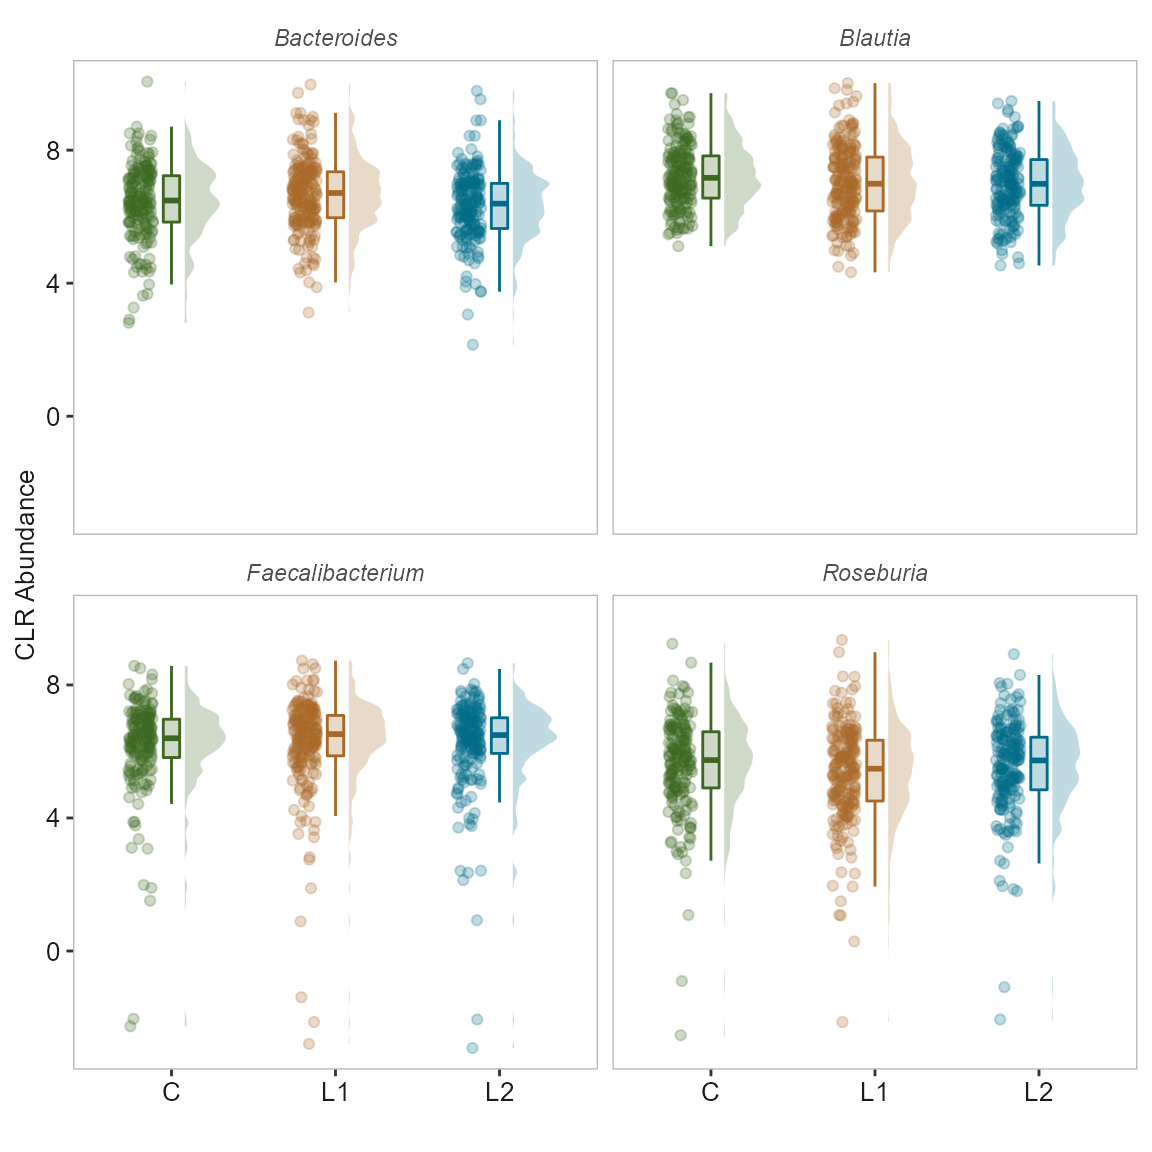
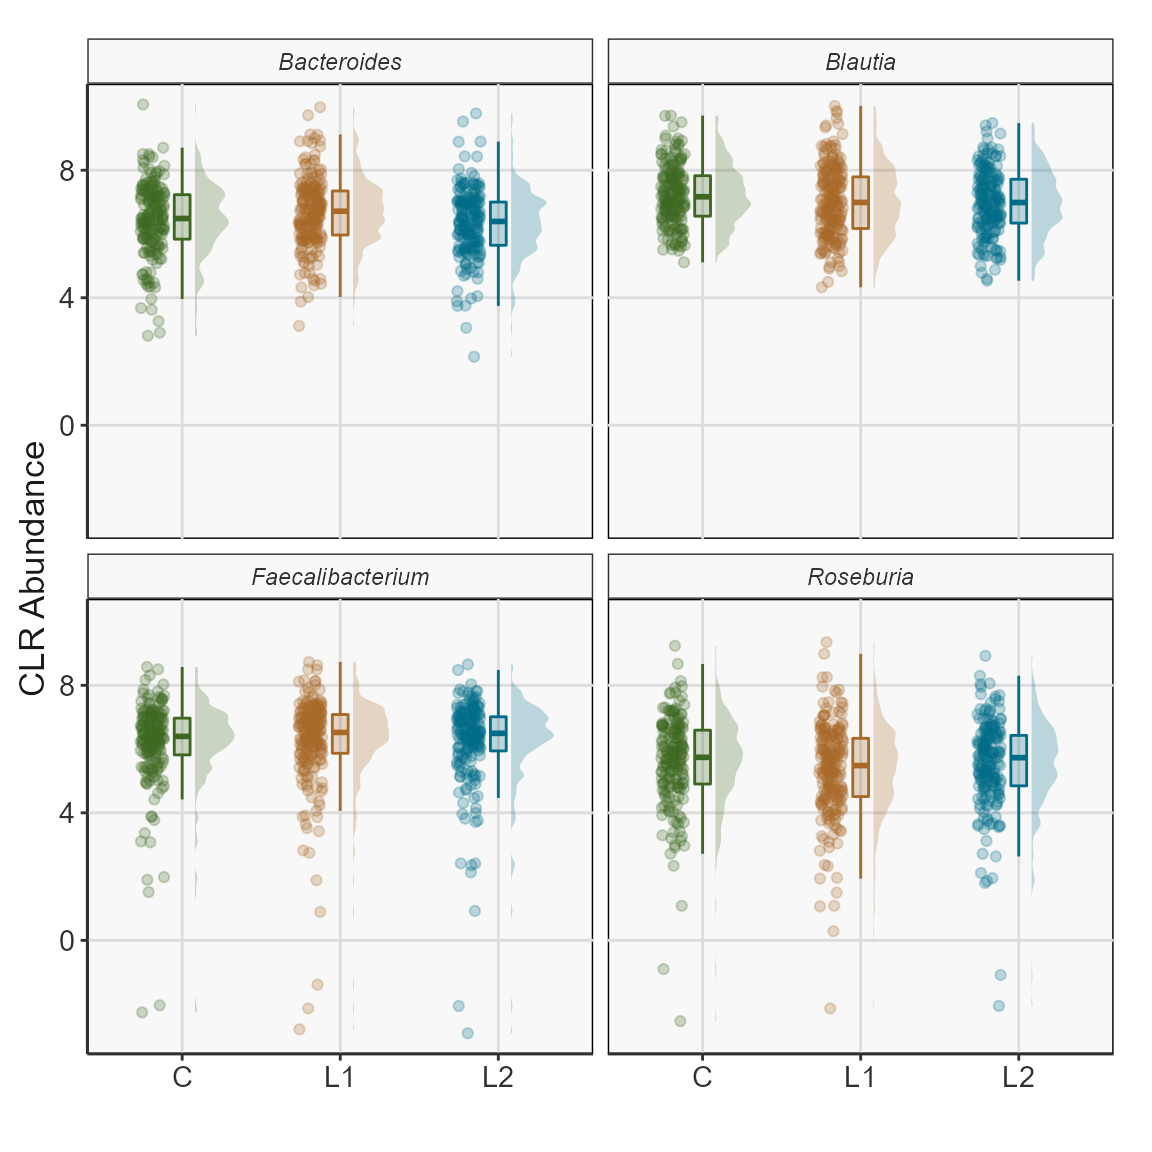
themes

diff --git a/docs/reference/Themes.html b/docs/reference/Themes.html
@@ -6,7 +6,7 @@
 <meta http-equiv="X-UA-Compatible" content="IE=edge">
 <meta name="viewport" content="width=device-width, initial-scale=1.0">
 
-<title>Creates a Heatmap using `TidyHeatmap` and `ComplexHeatmap` — plotTidyHeatmap • biomeViz</title>
+<title>Standard ggplot2 theme for RIVM Toolbox — Themes • biomeViz</title>
 
 
 <!-- jquery -->
@@ -39,8 +39,8 @@
 
 
 
-<meta property="og:title" content="Creates a Heatmap using `TidyHeatmap` and `ComplexHeatmap` — plotTidyHeatmap" />
-<meta property="og:description" content="Creates a Heatmap using `TidyHeatmap` and `ComplexHeatmap`" />
+<meta property="og:title" content="Standard ggplot2 theme for RIVM Toolbox — Themes" />
+<meta property="og:description" content="Standard ggplot2 theme for RIVM Toolbox" />
 
 
 
@@ -118,82 +118,66 @@
 <div class="row">
   <div class="col-md-9 contents">
     <div class="page-header">
-    <h1>Creates a Heatmap using `TidyHeatmap` and `ComplexHeatmap`</h1>
+    <h1>Standard ggplot2 theme for RIVM Toolbox</h1>
     
-    <div class="hidden name"><code>plotTidyHeatmap.Rd</code></div>
+    <div class="hidden name"><code>Themes.Rd</code></div>
     </div>
 
     <div class="ref-description">
-    <p>Creates a Heatmap using `TidyHeatmap` and `ComplexHeatmap`</p>
+    <p>Standard ggplot2 theme for RIVM Toolbox</p>
     </div>
 
-    <pre class="usage"><span class='fu'>plotTidyHeatmap</span><span class='op'>(</span>
-  <span class='va'>x</span>,
-  select_taxa <span class='op'>=</span> <span class='cn'>NULL</span>,
-  group_samples_by <span class='op'>=</span> <span class='cn'>NULL</span>,
-  add_taxa_label <span class='op'>=</span> <span class='cn'>TRUE</span>,
-  <span class='va'>...</span>
-<span class='op'>)</span></pre>
+    <pre class="usage"><span class='fu'>theme_biomViz</span><span class='op'>(</span>base_size <span class='op'>=</span> <span class='fl'>11</span>, base_family <span class='op'>=</span> <span class='st'>""</span><span class='op'>)</span>
+
+<span class='fu'>theme_biomViz_minimal</span><span class='op'>(</span>base_size <span class='op'>=</span> <span class='fl'>11</span>, base_family <span class='op'>=</span> <span class='st'>""</span><span class='op'>)</span>
+
+<span class='fu'>theme_biomViz_bw</span><span class='op'>(</span>base_size <span class='op'>=</span> <span class='fl'>11</span>, base_family <span class='op'>=</span> <span class='st'>""</span><span class='op'>)</span>
+
+<span class='fu'>scale_fill_biomeViz_summer</span><span class='op'>(</span><span class='va'>...</span><span class='op'>)</span>
+
+<span class='fu'>scale_colour_biomeViz_summer</span><span class='op'>(</span><span class='va'>...</span><span class='op'>)</span></pre>
 
     <h2 class="hasAnchor" id="arguments"><a class="anchor" href="#arguments"></a>Arguments</h2>
     <table class="ref-arguments">
     <colgroup><col class="name" /><col class="desc" /></colgroup>
     <tr>
-      <th>x</th>
-      <td><p><code>phyloseq-class</code> object.</p></td>
+      <th>base_size</th>
+      <td><p>Base size</p></td>
     </tr>
     <tr>
-      <th>select_taxa</th>
-      <td><p>Features to plot.</p></td>
-    </tr>
-    <tr>
-      <th>group_samples_by</th>
-      <td><p>A column in <code>sample_data</code> to group tiles.</p></td>
-    </tr>
-    <tr>
-      <th>add_taxa_label</th>
-      <td><p>Logical. Default is TRUE.</p></td>
-    </tr>
-    <tr>
-      <th>...</th>
-      <td><p>Arguments forwarded to tidyHeatmap::heatmap and ComplexHeatmap::Heatmap.</p></td>
+      <th>base_family</th>
+      <td><p>Base family</p></td>
     </tr>
     </table>
 
-    <h2 class="hasAnchor" id="value"><a class="anchor" href="#value"></a>Value</h2>
-
-    <p>a <code>heatmap</code> object.</p>
     <h2 class="hasAnchor" id="details"><a class="anchor" href="#details"></a>Details</h2>
 
-    <p>A TidyHeatmap plotting wrapper for <code>phyloseq-class</code> object.</p>
-    <h2 class="hasAnchor" id="references"><a class="anchor" href="#references"></a>References</h2>
-
-    <p>Shetty SA (2021). Data visualization for microbiome analytics.
-<a href='https://github.com/microsud/biomeViz'>https://github.com/microsud/biomeViz</a></p>
-    <h2 class="hasAnchor" id="author"><a class="anchor" href="#author"></a>Author</h2>
-
-    <p>Sudarshan A. Shetty</p>
+    <p>A standard theme for ggplot2 to produce similar aesthetics for
+         RIVM Toolbox.</p>
 
     <h2 class="hasAnchor" id="examples"><a class="anchor" href="#examples"></a>Examples</h2>
     <pre class="examples"><div class='input'><span class='kw'><a href='https://rdrr.io/r/base/library.html'>library</a></span><span class='op'>(</span><span class='va'>biomeUtils</span><span class='op'>)</span>
 <span class='kw'><a href='https://rdrr.io/r/base/library.html'>library</a></span><span class='op'>(</span><span class='va'>biomeViz</span><span class='op'>)</span>
 <span class='kw'><a href='https://rdrr.io/r/base/library.html'>library</a></span><span class='op'>(</span><span class='va'><a href='http://microbiome.github.io/microbiome'>microbiome</a></span><span class='op'>)</span>
+<span class='kw'><a href='https://rdrr.io/r/base/library.html'>library</a></span><span class='op'>(</span><span class='va'><a href='https://ggplot2.tidyverse.org'>ggplot2</a></span><span class='op'>)</span>
 <span class='kw'><a href='https://rdrr.io/r/base/library.html'>library</a></span><span class='op'>(</span><span class='va'><a href='https://dplyr.tidyverse.org'>dplyr</a></span><span class='op'>)</span>
 
 <span class='va'>ps</span> <span class='op'>&lt;-</span> <span class='va'>FuentesIliGutData</span> <span class='op'>%&gt;%</span>
-         <span class='fu'>microbiome</span><span class='fu'>::</span><span class='fu'><a href='https://rdrr.io/pkg/microbiome/man/transform.html'>transform</a></span><span class='op'>(</span><span class='st'>"compositional"</span><span class='op'>)</span>
-<span class='va'>select_taxa</span> <span class='op'>&lt;-</span> <span class='fu'><a href='https://rdrr.io/pkg/biomeUtils/man/findTopTaxa.html'>findTopTaxa</a></span><span class='op'>(</span><span class='va'>ps</span>, top<span class='op'>=</span> <span class='fl'>10</span>, method<span class='op'>=</span><span class='st'>"mean"</span><span class='op'>)</span>
+  <span class='fu'>microbiome</span><span class='fu'>::</span><span class='fu'><a href='https://rdrr.io/pkg/microbiome/man/aggregate_taxa.html'>aggregate_taxa</a></span><span class='op'>(</span><span class='st'>"Genus"</span><span class='op'>)</span> <span class='op'>%&gt;%</span>
+  <span class='fu'>microbiome</span><span class='fu'>::</span><span class='fu'><a href='https://rdrr.io/pkg/microbiome/man/transform.html'>transform</a></span><span class='op'>(</span><span class='st'>"compositional"</span><span class='op'>)</span>
 
-<span class='fu'>plotTidyHeatmap</span><span class='op'>(</span><span class='va'>ps</span>, select_taxa <span class='op'>=</span> <span class='va'>select_taxa</span>,
-                group_samples_by <span class='op'>=</span> <span class='st'>"ILI"</span>,
-                add_taxa_label <span class='op'>=</span> <span class='cn'>FALSE</span>,
-                cluster_rows <span class='op'>=</span> <span class='cn'>FALSE</span>,
-                .scale <span class='op'>=</span> <span class='st'>"none"</span>,
-                transform <span class='op'>=</span> <span class='cn'>NULL</span>,
-                palette_value <span class='op'>=</span> <span class='fu'><a href='https://rdrr.io/r/base/c.html'>c</a></span><span class='op'>(</span><span class='st'>"red"</span>, <span class='st'>"white"</span>, <span class='st'>"blue"</span><span class='op'>)</span><span class='op'>)</span>
-</div><div class='output co'>#&gt; <span class='message'>Registered S3 method overwritten by 'dendextend':</span>
-#&gt; <span class='message'>  method     from </span>
-#&gt; <span class='message'>  rev.hclust vegan</span></div><div class='output co'>#&gt; <span class='message'>tidyHeatmap says: (once per session) from release 1.2.3 the grouping labels have white background by default. To add color for one-ay grouping specify palette_grouping = list(c("red", "blue"))</span></div><div class='img'><img src='plotTidyHeatmap-1.png' alt='' width='700' height='433' /></div><div class='input'>
+<span class='fu'><a href='plotTaxaRaincloud.html'>plotTaxaRaincloud</a></span><span class='op'>(</span><span class='va'>ps</span>,
+                  taxa <span class='op'>=</span><span class='st'>"Bacteroides"</span>,
+                  group_samples_by <span class='op'>=</span> <span class='st'>"ILI"</span>,
+                  opacity <span class='op'>=</span> <span class='fl'>0.25</span>,
+                  shape_point <span class='op'>=</span> <span class='fl'>21</span><span class='op'>)</span> <span class='op'>+</span> <span class='co'># combine with ggplot2 for improvements</span>
+  <span class='fu'><a href='https://ggplot2.tidyverse.org/reference/labs.html'>labs</a></span><span class='op'>(</span>y <span class='op'>=</span> <span class='st'>"Relative abundance"</span>,
+       x <span class='op'>=</span> <span class='st'>""</span>,
+       subtitle <span class='op'>=</span> <span class='st'>"Raincloud plot"</span><span class='op'>)</span> <span class='op'>+</span>
+  <span class='fu'>theme_biomViz_minimal</span><span class='op'>(</span><span class='op'>)</span><span class='op'>+</span>
+  <span class='fu'>scale_fill_biomeViz_summer</span><span class='op'>(</span><span class='op'>)</span> <span class='op'>+</span>
+  <span class='fu'>scale_colour_biomeViz_summer</span><span class='op'>(</span><span class='op'>)</span>
+</div><div class='img'><img src='Themes-1.png' alt='' width='700' height='433' /></div><div class='input'>
 </div></pre>
   </div>
   <div class="col-md-3 hidden-xs hidden-sm" id="pkgdown-sidebar">

diff --git a/docs/articles/Introduction.html b/docs/articles/Introduction.html
@@ -31,7 +31,7 @@
       </button>
       <span class="navbar-brand">
         <a class="navbar-link" href="../index.html">biomeViz</a>
-        <span class="version label label-default" data-toggle="tooltip" data-placement="bottom" title="Released version">0.0.03</span>
+        <span class="version label label-default" data-toggle="tooltip" data-placement="bottom" title="Released version">0.0.04</span>
       </span>
     </div>
 
@@ -201,7 +201,7 @@
   <span class="fu"><a href="https://ggplot2.tidyverse.org/reference/labs.html">labs</a></span><span class="op">(</span>y <span class="op">=</span> <span class="st">"Relative abundance"</span>,
        x <span class="op">=</span> <span class="st">""</span>,
        subtitle <span class="op">=</span> <span class="fu"><a href="https://rdrr.io/r/base/expression.html">expression</a></span><span class="op">(</span><span class="fu"><a href="https://rdrr.io/r/base/paste.html">paste</a></span><span class="op">(</span><span class="st">"Raincloud plot showing the distribution of "</span>,<span class="fu"><a href="https://rdrr.io/r/grDevices/plotmath.html">italic</a></span><span class="op">(</span><span class="st">"Bacteroides"</span><span class="op">)</span><span class="op">)</span><span class="op">)</span><span class="op">)</span> <span class="op">+</span>
-  <span class="fu"><a href="../reference/theme_biomViz.html">theme_biomViz</a></span><span class="op">(</span><span class="op">)</span><span class="op">+</span>
+  <span class="fu"><a href="../reference/Themes.html">theme_biomViz</a></span><span class="op">(</span><span class="op">)</span><span class="op">+</span>
   <span class="fu"><a href="https://ggplot2.tidyverse.org/reference/scale_manual.html">scale_fill_manual</a></span><span class="op">(</span>values <span class="op">=</span> <span class="fu"><a href="https://rdrr.io/r/base/c.html">c</a></span><span class="op">(</span><span class="st">"#3d6721"</span>, <span class="st">"#a86826"</span>, <span class="st">"#006c89"</span><span class="op">)</span>, guide <span class="op">=</span> <span class="st">"none"</span><span class="op">)</span> <span class="op">+</span>
   <span class="fu"><a href="https://ggplot2.tidyverse.org/reference/scale_manual.html">scale_color_manual</a></span><span class="op">(</span>values <span class="op">=</span> <span class="fu"><a href="https://rdrr.io/r/base/c.html">c</a></span><span class="op">(</span><span class="st">"#3d6721"</span>, <span class="st">"#a86826"</span>, <span class="st">"#006c89"</span><span class="op">)</span>, guide <span class="op">=</span> <span class="st">"none"</span><span class="op">)</span> <span class="op">+</span>
   <span class="fu"><a href="https://ggplot2.tidyverse.org/reference/theme.html">theme</a></span><span class="op">(</span>plot.subtitle <span class="op">=</span> <span class="fu"><a href="https://ggplot2.tidyverse.org/reference/element.html">element_text</a></span><span class="op">(</span>margin <span class="op">=</span> <span class="fu"><a href="https://ggplot2.tidyverse.org/reference/element.html">margin</a></span><span class="op">(</span>t <span class="op">=</span> <span class="fl">5</span>, b <span class="op">=</span> <span class="fl">10</span><span class="op">)</span><span class="op">)</span>,
@@ -223,8 +223,8 @@
                   shape_point <span class="op">=</span> <span class="fl">21</span><span class="op">)</span> <span class="op">+</span> <span class="co"># combine with ggplot2 for improvements</span>
   <span class="fu"><a href="https://ggplot2.tidyverse.org/reference/labs.html">labs</a></span><span class="op">(</span>y <span class="op">=</span> <span class="st">"CLR Abundance"</span>,
        x <span class="op">=</span> <span class="st">""</span><span class="op">)</span> <span class="op">+</span> 
-  <span class="fu"><a href="../reference/theme_biomViz.html">theme_biomViz</a></span><span class="op">(</span><span class="op">)</span> <span class="op">+</span> 
-  <span class="fu"><a href="https://ggplot2.tidyverse.org/reference/theme.html">theme</a></span><span class="op">(</span>strip.text <span class="op">=</span> <span class="fu"><a href="https://ggplot2.tidyverse.org/reference/element.html">element_text</a></span><span class="op">(</span>face <span class="op">=</span> <span class="st">"italic"</span><span class="op">)</span><span class="op">)</span> <span class="op">+</span>
+  <span class="fu"><a href="../reference/Themes.html">theme_biomViz_bw</a></span><span class="op">(</span><span class="op">)</span> <span class="op">+</span> 
+  <span class="fu"><a href="https://ggplot2.tidyverse.org/reference/theme.html">theme</a></span><span class="op">(</span>strip.text.x <span class="op">=</span> <span class="fu"><a href="https://ggplot2.tidyverse.org/reference/element.html">element_text</a></span><span class="op">(</span>face <span class="op">=</span> <span class="st">"italic"</span><span class="op">)</span><span class="op">)</span> <span class="op">+</span>
   <span class="fu"><a href="https://ggplot2.tidyverse.org/reference/scale_manual.html">scale_fill_manual</a></span><span class="op">(</span>values <span class="op">=</span> <span class="fu"><a href="https://rdrr.io/r/base/c.html">c</a></span><span class="op">(</span><span class="st">"#3d6721"</span>, <span class="st">"#a86826"</span>, <span class="st">"#006c89"</span><span class="op">)</span>, guide <span class="op">=</span> <span class="st">"none"</span><span class="op">)</span> <span class="op">+</span>
   <span class="fu"><a href="https://ggplot2.tidyverse.org/reference/scale_manual.html">scale_color_manual</a></span><span class="op">(</span>values <span class="op">=</span> <span class="fu"><a href="https://rdrr.io/r/base/c.html">c</a></span><span class="op">(</span><span class="st">"#3d6721"</span>, <span class="st">"#a86826"</span>, <span class="st">"#006c89"</span><span class="op">)</span>, guide <span class="op">=</span> <span class="st">"none"</span><span class="op">)</span>  </code></pre></div>
 <p><img src="Introduction_files/figure-html/unnamed-chunk-6-1.png" width="576"></p>
@@ -260,7 +260,7 @@
          axis_plot <span class="op">=</span> <span class="fu"><a href="https://rdrr.io/r/base/c.html">c</a></span><span class="op">(</span><span class="fl">1</span><span class="op">:</span><span class="fl">2</span><span class="op">)</span>,
          point_shape <span class="op">=</span> <span class="fl">21</span>,  <span class="co"># point_shape</span>
          point_alpha <span class="op">=</span> <span class="fl">0.5</span><span class="op">)</span> <span class="op">+</span>
-  <span class="fu"><a href="../reference/theme_biomViz.html">theme_biomViz</a></span><span class="op">(</span><span class="op">)</span> <span class="op">+</span> 
+  <span class="fu"><a href="../reference/Themes.html">theme_biomViz_minimal</a></span><span class="op">(</span><span class="op">)</span> <span class="op">+</span> 
   <span class="fu"><a href="https://ggplot2.tidyverse.org/reference/scale_manual.html">scale_color_manual</a></span><span class="op">(</span>values <span class="op">=</span> <span class="fu"><a href="https://rdrr.io/r/base/c.html">c</a></span><span class="op">(</span><span class="st">"#3d6721"</span>, <span class="st">"#a86826"</span>, <span class="st">"#006c89"</span><span class="op">)</span><span class="op">)</span> <span class="op">+</span>
   <span class="fu"><a href="https://ggplot2.tidyverse.org/reference/scale_manual.html">scale_fill_manual</a></span><span class="op">(</span>values <span class="op">=</span> <span class="fu"><a href="https://rdrr.io/r/base/c.html">c</a></span><span class="op">(</span><span class="st">"#3d6721"</span>, <span class="st">"#a86826"</span>, <span class="st">"#006c89"</span><span class="op">)</span><span class="op">)</span>
 <span class="co">#&gt; Random number for permutation analysis ...</span>
@@ -288,7 +288,7 @@
 <span class="co">#&gt; </span>
 <span class="co">#&gt; other attached packages:</span>
 <span class="co">#&gt; [1] ggside_0.1.2      tidyHeatmap_1.3.1 gghalves_0.1.1    dplyr_1.0.6      </span>
-<span class="co">#&gt; [5] biomeViz_0.0.03   biomeUtils_0.012  microbiome_1.14.0 ggplot2_3.3.5    </span>
+<span class="co">#&gt; [5] biomeViz_0.0.04   biomeUtils_0.016  microbiome_1.14.0 ggplot2_3.3.5    </span>
 <span class="co">#&gt; [9] phyloseq_1.36.0  </span>
 <span class="co">#&gt; </span>
 <span class="co">#&gt; loaded via a namespace (and not attached):</span>

diff --git a/docs/reference/index.html b/docs/reference/index.html
@@ -71,7 +71,7 @@
       </button>
       <span class="navbar-brand">
         <a class="navbar-link" href="../index.html">biomeViz</a>
-        <span class="version label label-default" data-toggle="tooltip" data-placement="bottom" title="Released version">0.0.03</span>
+        <span class="version label label-default" data-toggle="tooltip" data-placement="bottom" title="Released version">0.0.04</span>
       </span>
     </div>
 
@@ -173,7 +173,7 @@
       </tr><tr>
         
         <td>
-          <p><code><a href="theme_biomViz.html">theme_biomViz</a></code> </p>
+          <p><code><a href="Themes.html">theme_biomViz()</a></code> <code><a href="Themes.html">theme_biomViz_minimal()</a></code> <code><a href="Themes.html">theme_biomViz_bw()</a></code> <code><a href="Themes.html">scale_fill_biomeViz_summer()</a></code> <code><a href="Themes.html">scale_colour_biomeViz_summer()</a></code> </p>
         </td>
         <td><p>Standard ggplot2 theme for RIVM Toolbox</p></td>
       </tr>

diff --git a/docs/news/index.html b/docs/news/index.html
@@ -71,7 +71,7 @@
       </button>
       <span class="navbar-brand">
         <a class="navbar-link" href="../index.html">biomeViz</a>
-        <span class="version label label-default" data-toggle="tooltip" data-placement="bottom" title="Released version">0.0.03</span>
+        <span class="version label label-default" data-toggle="tooltip" data-placement="bottom" title="Released version">0.0.04</span>
       </span>
     </div>
 
@@ -121,11 +121,11 @@
       
     </div>
 
-    <div id="biomeviz-010" class="section level1">
-<h1 class="page-header" data-toc-text="0.1.0">
-<a href="#biomeviz-010" class="anchor"></a>biomeViz 0.1.0</h1>
+    <div id="biomeviz-0004" class="section level1">
+<h1 class="page-header" data-toc-text="0.0.04">
+<a href="#biomeviz-0004" class="anchor"></a>biomeViz 0.0.04</h1>
 <ul>
-<li>Added a <code>NEWS.md</code> file to track changes to the package.</li>
+<li>Added a <code>themes</code> to the package.</li>
 </ul>
 </div>
   </div>

diff --git a/docs/articles/index.html b/docs/articles/index.html
@@ -71,7 +71,7 @@
       </button>
       <span class="navbar-brand">
         <a class="navbar-link" href="../index.html">biomeViz</a>
-        <span class="version label label-default" data-toggle="tooltip" data-placement="bottom" title="Released version">0.0.03</span>
+        <span class="version label label-default" data-toggle="tooltip" data-placement="bottom" title="Released version">0.0.04</span>
       </span>
     </div>
 

diff --git a/docs/reference/plotByGroup.html b/docs/reference/plotByGroup.html
@@ -72,7 +72,7 @@
       </button>
       <span class="navbar-brand">
         <a class="navbar-link" href="../index.html">biomeViz</a>
-        <span class="version label label-default" data-toggle="tooltip" data-placement="bottom" title="Released version">0.0.03</span>
+        <span class="version label label-default" data-toggle="tooltip" data-placement="bottom" title="Released version">0.0.04</span>
       </span>
     </div>
 

diff --git a/docs/reference/plotPCoA.html b/docs/reference/plotPCoA.html
@@ -72,7 +72,7 @@
       </button>
       <span class="navbar-brand">
         <a class="navbar-link" href="../index.html">biomeViz</a>
-        <span class="version label label-default" data-toggle="tooltip" data-placement="bottom" title="Released version">0.0.03</span>
+        <span class="version label label-default" data-toggle="tooltip" data-placement="bottom" title="Released version">0.0.04</span>
       </span>
     </div>
 

diff --git a/docs/reference/plotTaxaRaincloud.html b/docs/reference/plotTaxaRaincloud.html
@@ -72,7 +72,7 @@
       </button>
       <span class="navbar-brand">
         <a class="navbar-link" href="../index.html">biomeViz</a>
-        <span class="version label label-default" data-toggle="tooltip" data-placement="bottom" title="Released version">0.0.03</span>
+        <span class="version label label-default" data-toggle="tooltip" data-placement="bottom" title="Released version">0.0.04</span>
       </span>
     </div>
 

diff --git a/docs/reference/plotTopAbundant.html b/docs/reference/plotTopAbundant.html
@@ -72,7 +72,7 @@
       </button>
       <span class="navbar-brand">
         <a class="navbar-link" href="../index.html">biomeViz</a>
-        <span class="version label label-default" data-toggle="tooltip" data-placement="bottom" title="Released version">0.0.03</span>
+        <span class="version label label-default" data-toggle="tooltip" data-placement="bottom" title="Released version">0.0.04</span>
       </span>
     </div>
 

diff --git a/docs/404.html b/docs/404.html
@@ -71,7 +71,7 @@
       </button>
       <span class="navbar-brand">
         <a class="navbar-link" href="index.html">biomeViz</a>
-        <span class="version label label-default" data-toggle="tooltip" data-placement="bottom" title="Released version">0.0.03</span>
+        <span class="version label label-default" data-toggle="tooltip" data-placement="bottom" title="Released version">0.0.04</span>
       </span>
     </div>
 

diff --git a/docs/LICENSE-text.html b/docs/LICENSE-text.html
@@ -71,7 +71,7 @@
       </button>
       <span class="navbar-brand">
         <a class="navbar-link" href="index.html">biomeViz</a>
-        <span class="version label label-default" data-toggle="tooltip" data-placement="bottom" title="Released version">0.0.03</span>
+        <span class="version label label-default" data-toggle="tooltip" data-placement="bottom" title="Released version">0.0.04</span>
       </span>
     </div>
 

diff --git a/docs/LICENSE.html b/docs/LICENSE.html
@@ -71,7 +71,7 @@
       </button>
       <span class="navbar-brand">
         <a class="navbar-link" href="index.html">biomeViz</a>
-        <span class="version label label-default" data-toggle="tooltip" data-placement="bottom" title="Released version">0.0.03</span>
+        <span class="version label label-default" data-toggle="tooltip" data-placement="bottom" title="Released version">0.0.04</span>
       </span>
     </div>
 
